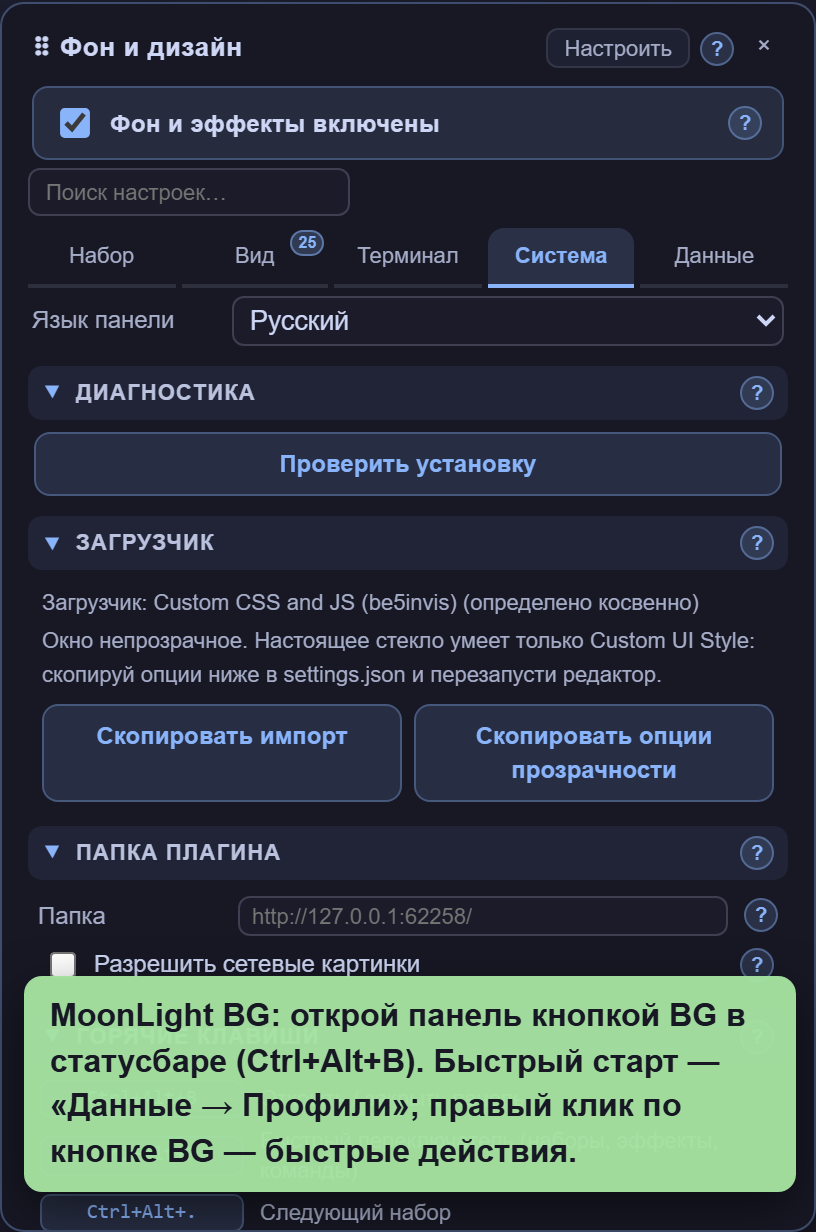
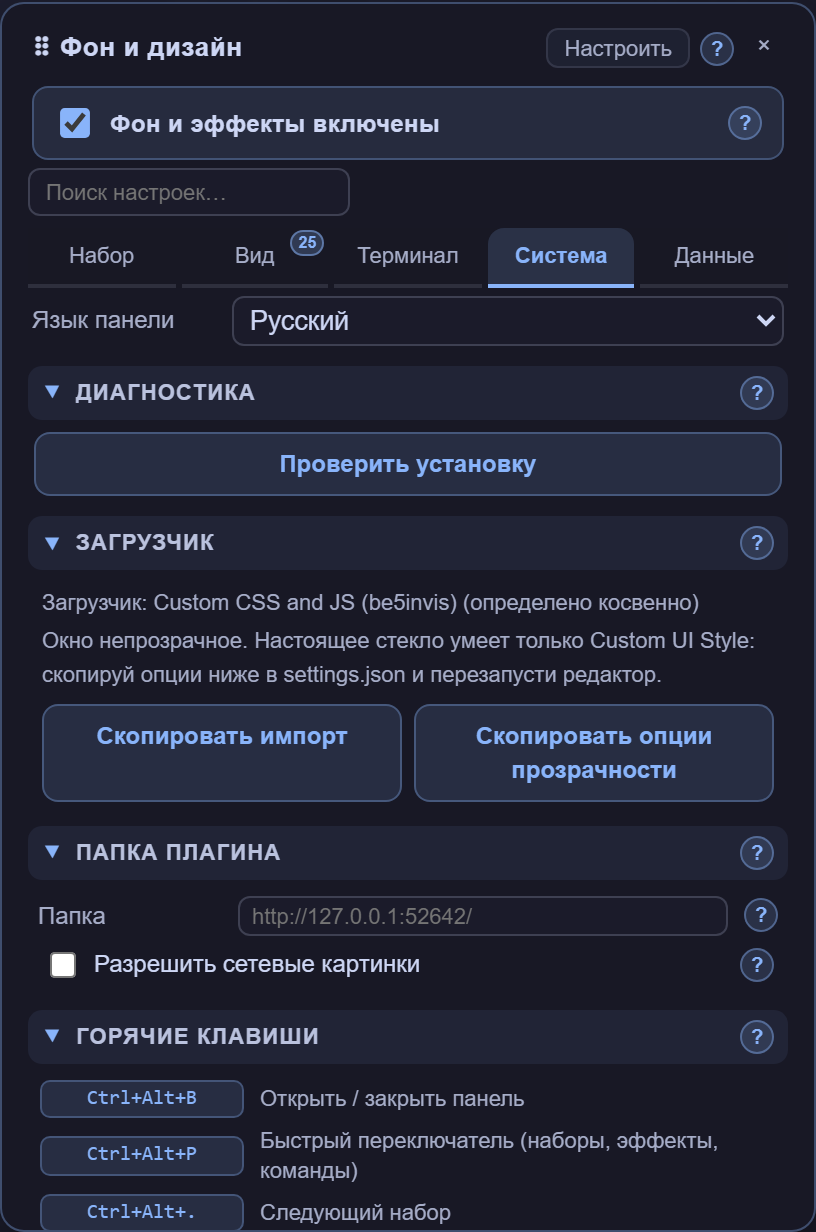
fix: убрать всплывающие уведомления со скриншотов и починить футер README
- Генератор скриншотов ставил флаг онбординга и выключал авто-бюджет FPS: приветствие
  первого запуска и тост «экономия ресурсов» (headless рисует медленно, гвард срабатывал
  честно) ложились поверх панели. Плюс страховка: уцелевшие тосты убираются перед съёмкой.
- У тоста появился класс mlbg-toast — до сих пор его нельзя было ни найти, ни убрать
  снаружи, что и мешало и скриншотам, и тестам.
- Футер README накладывал строки друг на друга: пустая строка внутри <sub> заставляла
  GitHub обернуть содержимое в блочный <p>, а блок внутри строчного элемента с
  vertical-align: sub схлопывал строки. Переписан чистым HTML, по одному <sub> на строку.
- Скриншоты панели пересняты (RU/EN x 5 вкладок).

Changed region(s): [[0.0306, 0.7403, 0.9804, 1.0]]

diff --git a/scripts/screenshots.js b/scripts/screenshots.js
@@ -58,8 +58,14 @@ function startServer() {
         for (const L of LANGS) {
             // Свежий контекст на язык: сид применяется до загрузки, retina-масштаб для чётких PNG.
             const ctx = await browser.newContext({ deviceScaleFactor: 2 });
-            await ctx.addInitScript((seed) => { try { window.__MLBG_SEED__ = seed; } catch (e) {} },
-                { lang: L.code, mode: L.mode, enabled: true });
+            // Тосты на скриншотах документации перекрывали панель. Две причины: приветствие
+            // первого запуска (localStorage пуст в свежем контексте) и «экономия ресурсов» —
+            // headless-браузер рисует медленно, и авто-бюджет FPS честно срабатывает.
+            // Первое гасим флагом онбординга, второе — выключенным perfGuard.
+            await ctx.addInitScript((seed) => {
+                try { localStorage.setItem("moonlight-bg-onboarded", "1"); } catch (e) {}
+                try { window.__MLBG_SEED__ = seed; } catch (e) {}
+            }, { lang: L.code, mode: L.mode, enabled: true, perfGuard: false });
             const page = await ctx.newPage();
             await page.goto(base, { waitUntil: "networkidle" });
             const btn = page.locator("#moonlight-bg-switcher");
@@ -71,6 +77,11 @@ function startServer() {
             for (let i = 0; i < TABS.length; i++) {
                 await tabs.nth(i).click();
                 await page.waitForTimeout(400); // дать раскрыться секциям и подгрузиться миниатюрам
+                // Страховка: любой тост, успевший появиться, убираем — он рисуется поверх панели.
+                await page.evaluate(() => {
+                    var n = document.querySelectorAll(".mlbg-toast");
+                    for (var i = 0; i < n.length; i++) n[i].remove();
+                });
                 const file = path.join(OUT, "menu-" + L.code + "-" + TABS[i] + ".png");
                 await panel.screenshot({ path: file });
                 console.log("saved", path.relative(ROOT, file));

diff --git a/custom-bg.js b/custom-bg.js
@@ -5285,6 +5285,9 @@
             "position:fixed; bottom:44px; right:16px; z-index:100004; padding:9px 13px; border-radius:9px;" +
             "max-width:min(360px,80vw); line-height:1.4;" + // длинные предупреждения переносятся, а не уезжают за край
             "font-weight:600; font-family:var(--vscode-font-family,sans-serif); box-shadow:0 8px 24px rgba(0,0,0,0.5);", msg);
+        // Класс нужен, чтобы тост можно было найти снаружи: генератор скриншотов убирает их
+        // перед съёмкой (иначе уведомление ложится поверх панели), а тесты — проверяют текст.
+        t.className = "mlbg-toast";
         t.style.background = ok === false ? "rgba(243,139,168,0.96)" : "rgba(166,227,161,0.96)";
         t.style.color = "#181825";
         // Скринридер озвучит текст тоста (например «Пресет сохранён»). Ошибки — настойчивее.

diff --git a/src/ui/io.js b/src/ui/io.js
@@ -9,6 +9,9 @@ function toast(msg, ok) {
         "position:fixed; bottom:44px; right:16px; z-index:100004; padding:9px 13px; border-radius:9px;" +
         "max-width:min(360px,80vw); line-height:1.4;" + // длинные предупреждения переносятся, а не уезжают за край
         "font-weight:600; font-family:var(--vscode-font-family,sans-serif); box-shadow:0 8px 24px rgba(0,0,0,0.5);", msg);
+    // Класс нужен, чтобы тост можно было найти снаружи: генератор скриншотов убирает их
+    // перед съёмкой (иначе уведомление ложится поверх панели), а тесты — проверяют текст.
+    t.className = "mlbg-toast";
     t.style.background = ok === false ? "rgba(243,139,168,0.96)" : "rgba(166,227,161,0.96)";
     t.style.color = "#181825";
     // Скринридер озвучит текст тоста (например «Пресет сохранён»). Ошибки — настойчивее.

diff --git a/CHANGELOG.md b/CHANGELOG.md
@@ -126,6 +126,14 @@
 - Смоук-линтер следит, что все эти зависимости ссылаются на существующие эффекты и параметры.
 
 ### Исправлено
+- Скриншоты документации снимались вместе с всплывающими уведомлениями: приветствие первого
+  запуска и «экономия ресурсов» (headless-браузер рисует медленно, авто-бюджет FPS срабатывал
+  честно) ложились поверх панели. Генератор скриншотов теперь ставит флаг онбординга,
+  выключает `perfGuard` и убирает уцелевшие тосты перед съёмкой; у самого тоста появился
+  класс `mlbg-toast` — раньше его нельзя было ни найти, ни убрать снаружи.
+- Футер README накладывал строки друг на друга: пустая строка внутри `<sub>` заставляла
+  GitHub обернуть содержимое в блочный `<p>`, а блок внутри строчного элемента с
+  `vertical-align: sub` схлопывал строки. Переписан чистым HTML — по одному `<sub>` на строку.
 - Сборка артефакта была не воспроизводимой между платформами: при CRLF в исходниках «пустая»
   строка содержала CR, `indent()` считал её непустой и дописывал четыре пробела — собранный на
   Windows `custom-bg.js` расходился с собранным на Linux на 296 строк, и CI падал на сверке.

diff --git a/README.md b/README.md
@@ -666,10 +666,7 @@ MIT — см. [LICENSE](LICENSE). Наборы фонов и палитры — 
 ---
 
 <div align="center">
-<sub>
-
-**MoonLight custom-bg** — один скрипт, ноль зависимостей, весь вид в твоих руках.<br>
-Нашёл баг или есть идея? — [Issues](https://github.com/moonlivedt-oss/custom_VScode/issues) · [Discussions](https://github.com/moonlivedt-oss/custom_VScode/discussions)
-
-</sub>
+  <sub><b>MoonLight custom-bg</b> — один скрипт, ноль зависимостей, весь вид в твоих руках.</sub>
+  <br>
+  <sub>Нашёл баг или есть идея? — <a href="https://github.com/moonlivedt-oss/custom_VScode/issues">Issues</a> · <a href="https://github.com/moonlivedt-oss/custom_VScode/discussions">Discussions</a></sub>
 </div>

diff --git a/README.en.md b/README.en.md
@@ -352,10 +352,7 @@ MIT — see [LICENSE](LICENSE). Background sets and palettes are part of the pro
 ---
 
 <div align="center">
-<sub>
-
-**MoonLight custom-bg** — one script, zero dependencies, the whole look in your hands.<br>
-Found a bug or have an idea? — [Issues](https://github.com/moonlivedt-oss/custom_VScode/issues) · [Discussions](https://github.com/moonlivedt-oss/custom_VScode/discussions)
-
-</sub>
+  <sub><b>MoonLight custom-bg</b> — one script, zero dependencies, the whole look in your hands.</sub>
+  <br>
+  <sub>Found a bug or have an idea? — <a href="https://github.com/moonlivedt-oss/custom_VScode/issues">Issues</a> · <a href="https://github.com/moonlivedt-oss/custom_VScode/discussions">Discussions</a></sub>
 </div>
